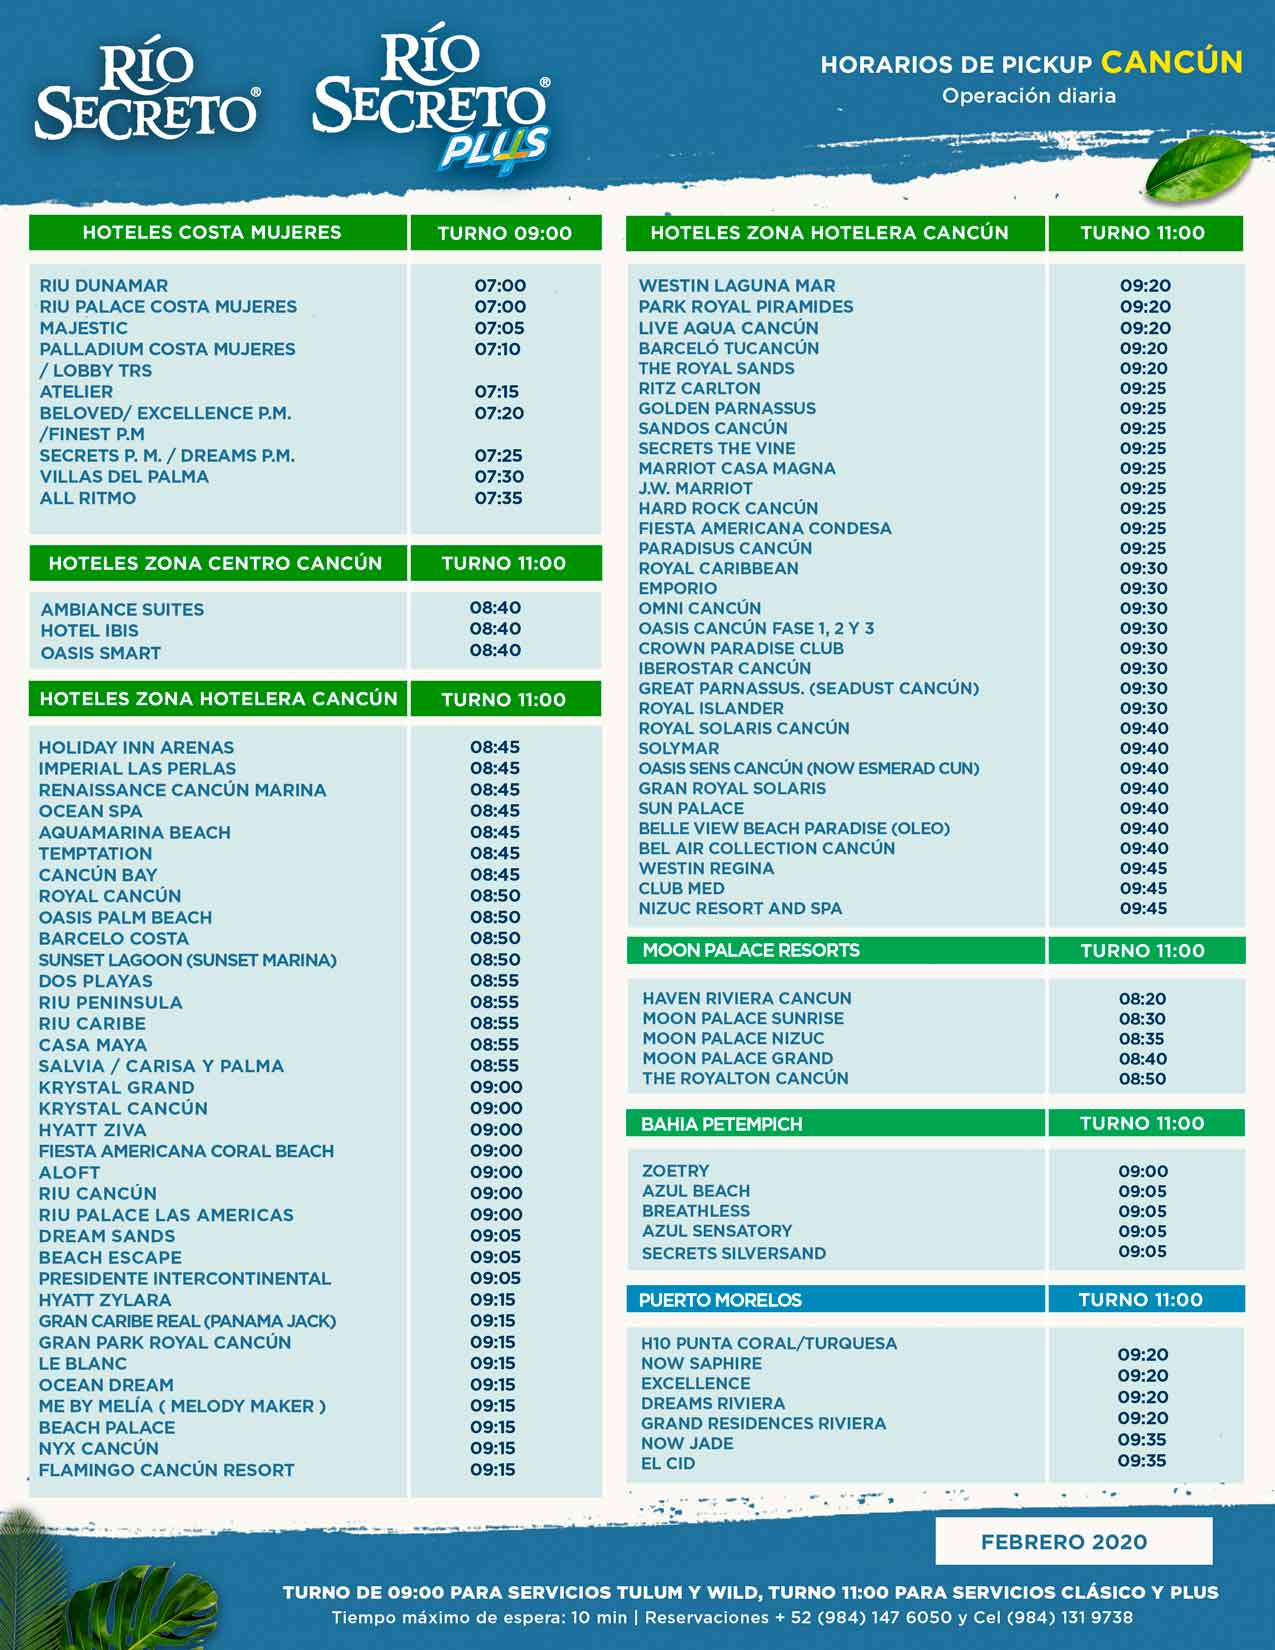
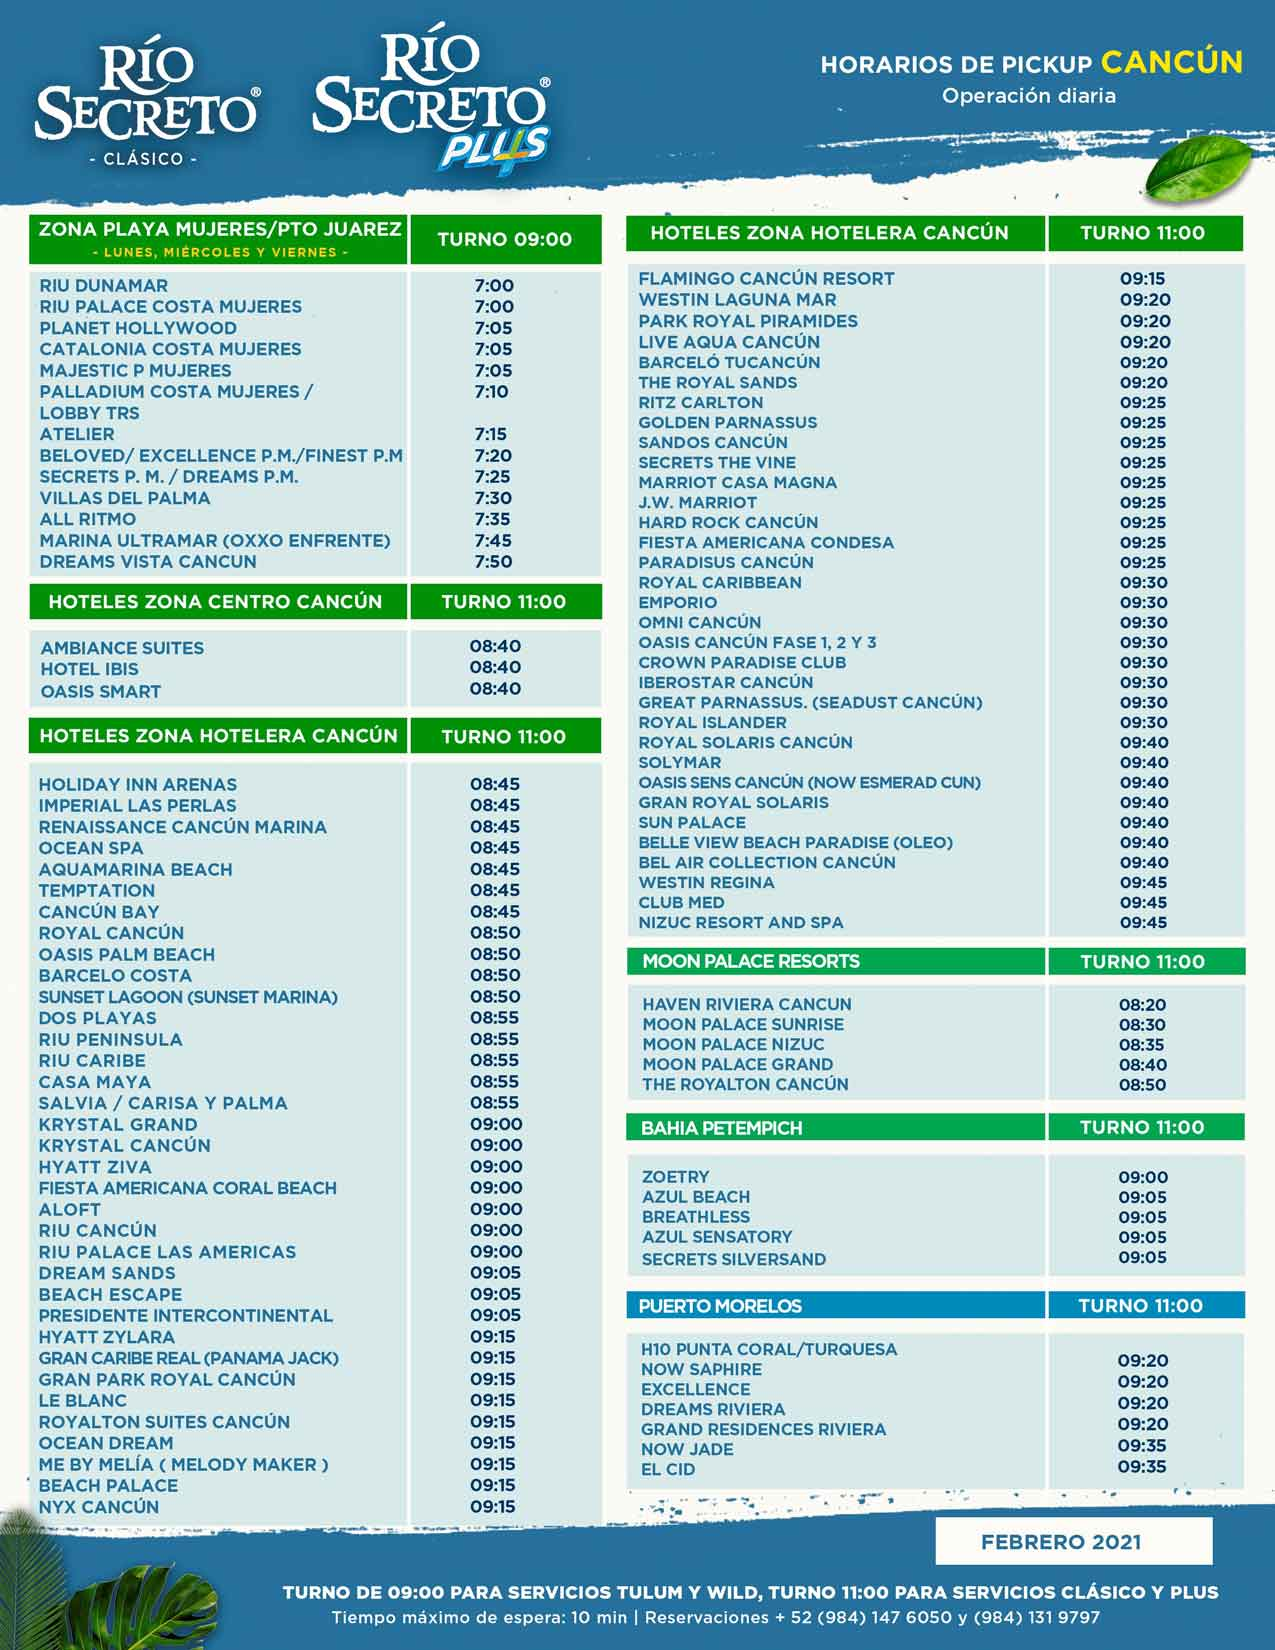
Ajustes
-Nuevas fotos de ceremonia en Clásico
-Actualización de pickups Cancún
-Nuevas fotos en Romance
-Agregado video en Romance

Changed region(s): [[0.0, 0.0927, 0.9788, 0.9273], [0.7647, 0.9582, 0.8871, 0.9891]]

diff --git a/index.html b/index.html
@@ -346,6 +346,24 @@
             </div>
             <div class="col-6 col-lg-3 col-md-4 col-sm-6 ap">
               <div class="h_gallery_item">
+                <img src="img/contenido/RS Clasico/Fotos/RS-Clasico-16.jpg" alt="">
+                <div class="hover">
+                  <a href="#"><h4></h4></a>
+                  <a class="light" href="img/contenido/RS Clasico/Fotos/RS-Clasico-16.jpg"><i class="fas fa-expand"></i></a>
+                </div>
+              </div>
+            </div>
+            <div class="col-6 col-lg-3 col-md-4 col-sm-6 ap">
+              <div class="h_gallery_item">
+                <img src="img/contenido/RS Clasico/Fotos/RS-Clasico-17.jpg" alt="">
+                <div class="hover">
+                  <a href="#"><h4></h4></a>
+                  <a class="light" href="img/contenido/RS Clasico/Fotos/RS-Clasico-17.jpg"><i class="fas fa-expand"></i></a>
+                </div>
+              </div>
+            </div>
+            <div class="col-6 col-lg-3 col-md-4 col-sm-6 ap">
+              <div class="h_gallery_item">
                 <img src="img/contenido/RS Clasico/Fotos/RS-Clasico-5.jpg" alt="">
                 <div class="hover">
                   <a href="#"><h4></h4></a>
@@ -1234,6 +1252,15 @@
             </div>
             <div class="col-6 col-lg-3 col-md-4 col-sm-6 ap5 oculto">
               <div class="h_gallery_item">
+                <img src="img/contenido/Grupos/Romance-6.jpg" alt="">
+                <div class="hover">
+                  <a href="#"><h4></h4></a>
+                  <a class="light" href="img/contenido/Grupos/Romance-6.jpg"><i class="fas fa-expand"></i></a>
+                </div>
+              </div>
+            </div>
+            <div class="col-6 col-lg-3 col-md-4 col-sm-6 ap5 oculto">
+              <div class="h_gallery_item">
                 <img src="img/contenido/Grupos/Romance-1.jpg" alt="">
                 <div class="hover">
                   <a href="#"><h4></h4></a>
@@ -1261,10 +1288,19 @@
             </div>
             <div class="col-6 col-lg-3 col-md-4 col-sm-6 ap5 oculto">
               <div class="h_gallery_item">
-                <img src="img/contenido/Grupos/Romance-4.jpg" alt="">
+                <img src="img/contenido/Grupos/Romance-7.jpg" alt="">
                 <div class="hover">
                   <a href="#"><h4></h4></a>
-                  <a class="light" href="img/contenido/Grupos/Romance-4.jpg"><i class="fas fa-expand"></i></a>
+                  <a class="light" href="img/contenido/Grupos/Romance-7.jpg"><i class="fas fa-expand"></i></a>
+                </div>
+              </div>
+            </div>
+            <div class="col-6 col-lg-3 col-md-4 col-sm-6 ap5 oculto">
+              <div class="h_gallery_item">
+                <img src="img/contenido/Grupos/Romance-8.jpg" alt="">
+                <div class="hover">
+                  <a href="#"><h4></h4></a>
+                  <a class="light" href="img/contenido/Grupos/Romance-8.jpg"><i class="fas fa-expand"></i></a>
                 </div>
               </div>
             </div>
@@ -1283,6 +1319,15 @@
                 <div class="hover">
                   <a href="#"><h4></h4></a>
                   <a class="light" href="https://www.youtube.com/embed/onpLpq13B-0"><i class="fas fa-expand"></i></a>
+                </div>
+              </div>
+            </div>
+            <div class="col-6 col-lg-3 col-md-4 col-sm-6 ap5 oculto">
+              <div class="h_gallery_item">
+                <iframe width="100%" height="80%" src="https://www.youtube.com/embed/4FiflPxpfUk" frameborder="0" allow="accelerometer; encrypted-media; gyroscope; picture-in-picture" allowfullscreen></iframe>
+                <div class="hover">
+                  <a href="#"><h4></h4></a>
+                  <a class="light" href="https://www.youtube.com/embed/4FiflPxpfUk"><i class="fas fa-expand"></i></a>
                 </div>
               </div>
             </div>
@@ -1352,7 +1397,7 @@
                 <img src="img/contenido/Materiales/Mock-up-pickup-Tulum---Wild-Cancun.jpg" alt="">
                 <div class="hover">
                   <a href="#"></a>
-                  <a class="light" href="img/contenido/Materiales/WT PICKUP CANCUN-1.jpg"><i class="fas fa-expand"><br><br><h4>Pickups desde Cancún: RS Tulum y RS Wild</h4></i></a>    
+                  <a class="light" href="img/contenido/Materiales/WT-PICKUP-CANCUN-1.jpg"><i class="fas fa-expand"><br><br><h4>Pickups desde Cancún: RS Tulum y RS Wild</h4></i></a>    
                 </div>
               </div>
             </div>

diff --git a/rs-romance/index.html b/rs-romance/index.html
@@ -214,6 +214,15 @@
             </div>
             <div class="col-6 col-lg-3 col-md-4 col-sm-6 ap5">
               <div class="h_gallery_item">
+                <img src="../img/contenido/Grupos/Romance-6.jpg" alt="">
+                <div class="hover">
+                  <a href="#"><h4></h4></a>
+                  <a class="light" href="../img/contenido/Grupos/Romance-6.jpg"><i class="fas fa-expand"></i></a>
+                </div>
+              </div>
+            </div>
+            <div class="col-6 col-lg-3 col-md-4 col-sm-6 ap5">
+              <div class="h_gallery_item">
                 <img src="../img/contenido/Grupos/Romance-1.jpg" alt="">
                 <div class="hover">
                   <a href="#"><h4></h4></a>
@@ -241,10 +250,19 @@
             </div>
             <div class="col-6 col-lg-3 col-md-4 col-sm-6 ap5">
               <div class="h_gallery_item">
-                <img src="../img/contenido/Grupos/Romance-4.jpg" alt="">
+                <img src="../img/contenido/Grupos/Romance-7.jpg" alt="">
                 <div class="hover">
                   <a href="#"><h4></h4></a>
-                  <a class="light" href="../img/contenido/Grupos/Romance-4.jpg"><i class="fas fa-expand"></i></a>
+                  <a class="light" href="../img/contenido/Grupos/Romance-7.jpg"><i class="fas fa-expand"></i></a>
+                </div>
+              </div>
+            </div>
+            <div class="col-6 col-lg-3 col-md-4 col-sm-6 ap5">
+              <div class="h_gallery_item">
+                <img src="../img/contenido/Grupos/Romance-8.jpg" alt="">
+                <div class="hover">
+                  <a href="#"><h4></h4></a>
+                  <a class="light" href="../img/contenido/Grupos/Romance-8.jpg"><i class="fas fa-expand"></i></a>
                 </div>
               </div>
             </div>
@@ -263,6 +281,15 @@
                 <div class="hover">
                   <a href="#"><h4></h4></a>
                   <a class="light" href="https://www.youtube.com/embed/onpLpq13B-0"><i class="fas fa-expand"></i></a>
+                </div>
+              </div>
+            </div>
+            <div class="col-6 col-lg-3 col-md-4 col-sm-6 ap5">
+              <div class="h_gallery_item">
+                <iframe width="100%" height="80%" src="https://www.youtube.com/embed/4FiflPxpfUk" frameborder="0" allow="accelerometer; encrypted-media; gyroscope; picture-in-picture" allowfullscreen></iframe>
+                <div class="hover">
+                  <a href="#"><h4></h4></a>
+                  <a class="light" href="https://www.youtube.com/embed/4FiflPxpfUk"><i class="fas fa-expand"></i></a>
                 </div>
               </div>
             </div>

diff --git a/rs-clasico/index.html b/rs-clasico/index.html
@@ -215,6 +215,24 @@
             </div>
             <div class="col-6 col-lg-3 col-md-4 col-sm-6 ap">
               <div class="h_gallery_item">
+                <img src="../img/contenido/RS Clasico/Fotos/RS-Clasico-16.jpg" alt="">
+                <div class="hover">
+                  <a href="#"><h4></h4></a>
+                  <a class="light" href="../img/contenido/RS Clasico/Fotos/RS-Clasico-16.jpg"><i class="fas fa-expand"></i></a>
+                </div>
+              </div>
+            </div>
+            <div class="col-6 col-lg-3 col-md-4 col-sm-6 ap">
+              <div class="h_gallery_item">
+                <img src="../img/contenido/RS Clasico/Fotos/RS-Clasico-17.jpg" alt="">
+                <div class="hover">
+                  <a href="#"><h4></h4></a>
+                  <a class="light" href="../img/contenido/RS Clasico/Fotos/RS-Clasico-17.jpg"><i class="fas fa-expand"></i></a>
+                </div>
+              </div>
+            </div>
+            <div class="col-6 col-lg-3 col-md-4 col-sm-6 ap">
+              <div class="h_gallery_item">
                 <img src="../img/contenido/RS Clasico/Fotos/RS-Clasico-5.jpg" alt="">
                 <div class="hover">
                   <a href="#"><h4></h4></a>
